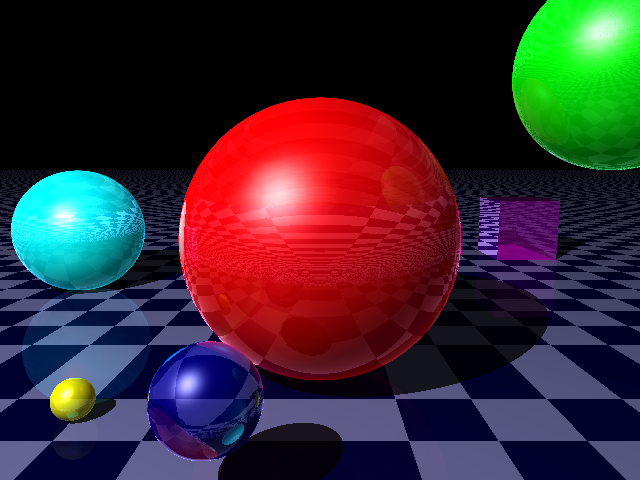
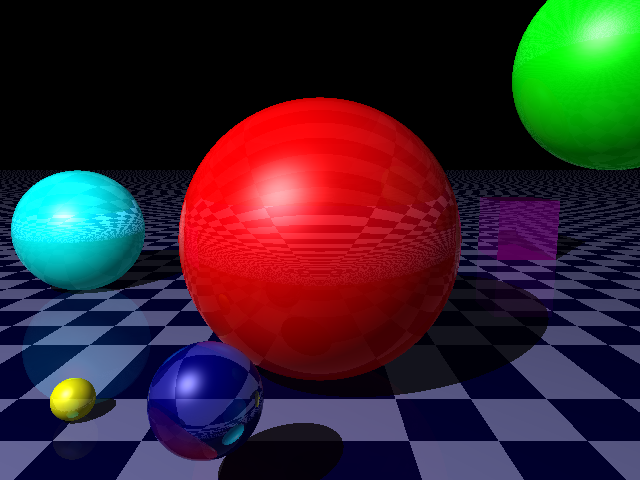
tweaking

diff --git a/src/main.cpp b/src/main.cpp
@@ -58,12 +58,12 @@ int main (int argc, char *argv[]){
 	// Scene Color
 	Color white_light (0.8, 0.8, 0.8, 0, 0);
 	Color yellow_light (0.7, 0.7, 0.0, 0, 0);
-	Color red_reflective (1, 0, 0, 2.0, 0.7);
-	Color green_reflective (0, 1, 0, 2.0, 1.0);
-	Color blue_reflective (0.0, 0.0, 0.4, 2.0, 0.7);
-	Color yellow_reflective (1, 1, 0, 2.0, 0.5);
-	Color cyan_reflective (0, 1, 1, 2.0, 1.0);
-	Color magenta_reflective (1, 0, 1, 2.0, 0.7);
+	Color red_reflective (1, 0, 0, 0.8, 0.7);
+	Color green_reflective (0, 1, 0, 0.8, 1.0);
+	Color blue_reflective (0.0, 0.0, 0.4, 0.8, 0.7);
+	Color yellow_reflective (1, 1, 0, 0.8, 0.5);
+	Color cyan_reflective (0, 1, 1, 0.8, 1.0);
+	Color magenta_reflective (1, 0, 1, 0.8, 0.7);
 	Color plane_purple (0, 0, 0.5, 0.777, 0.5);
 	
 	// Light sources
